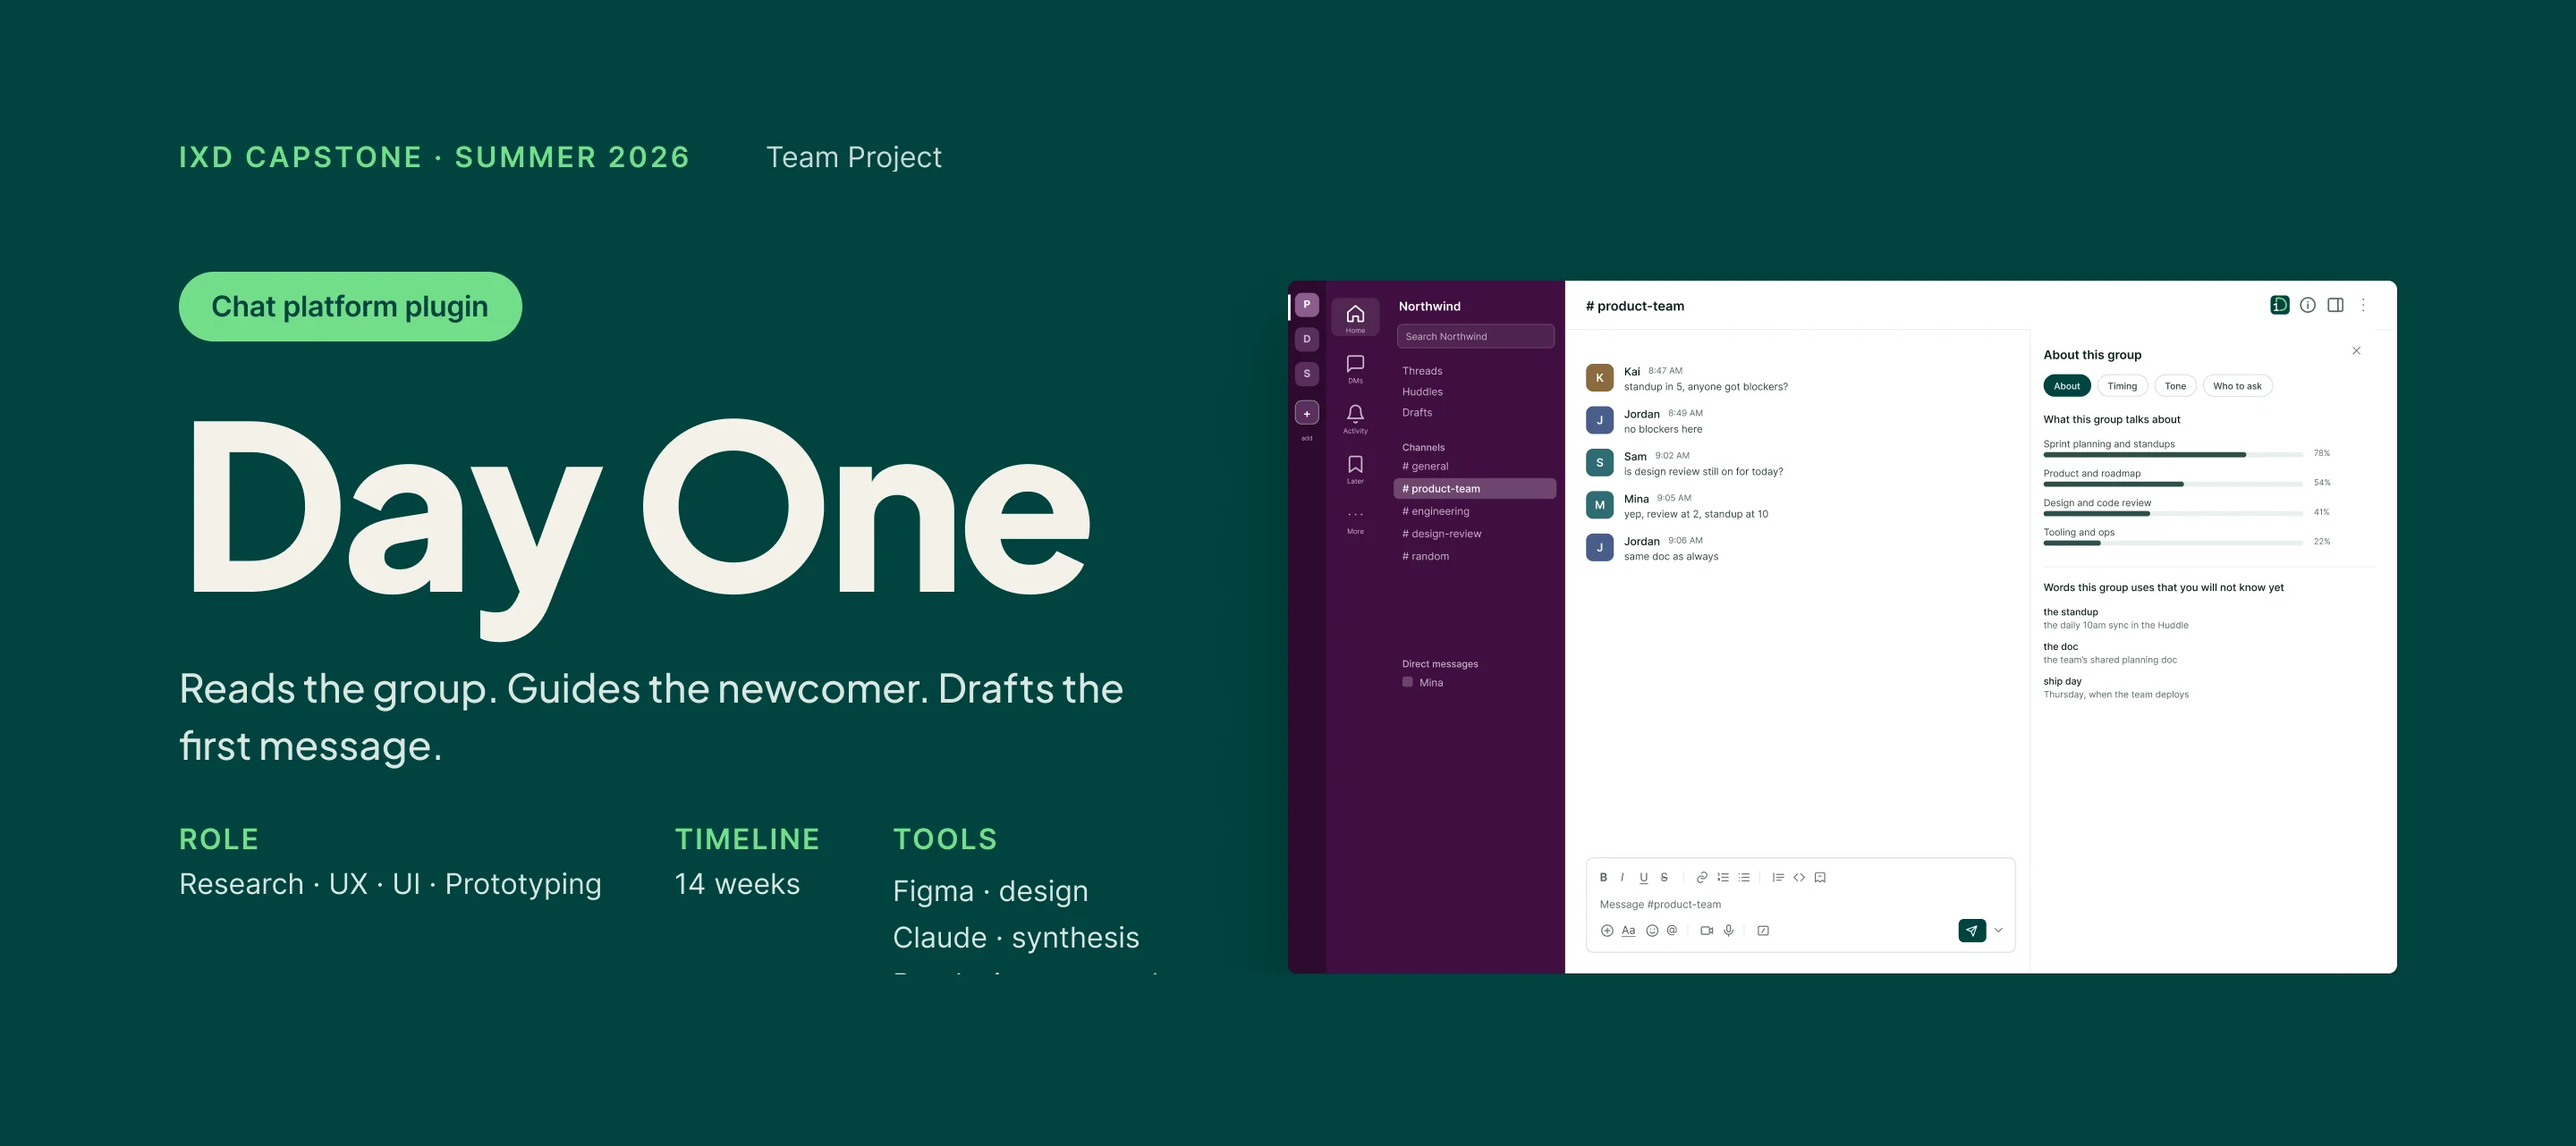
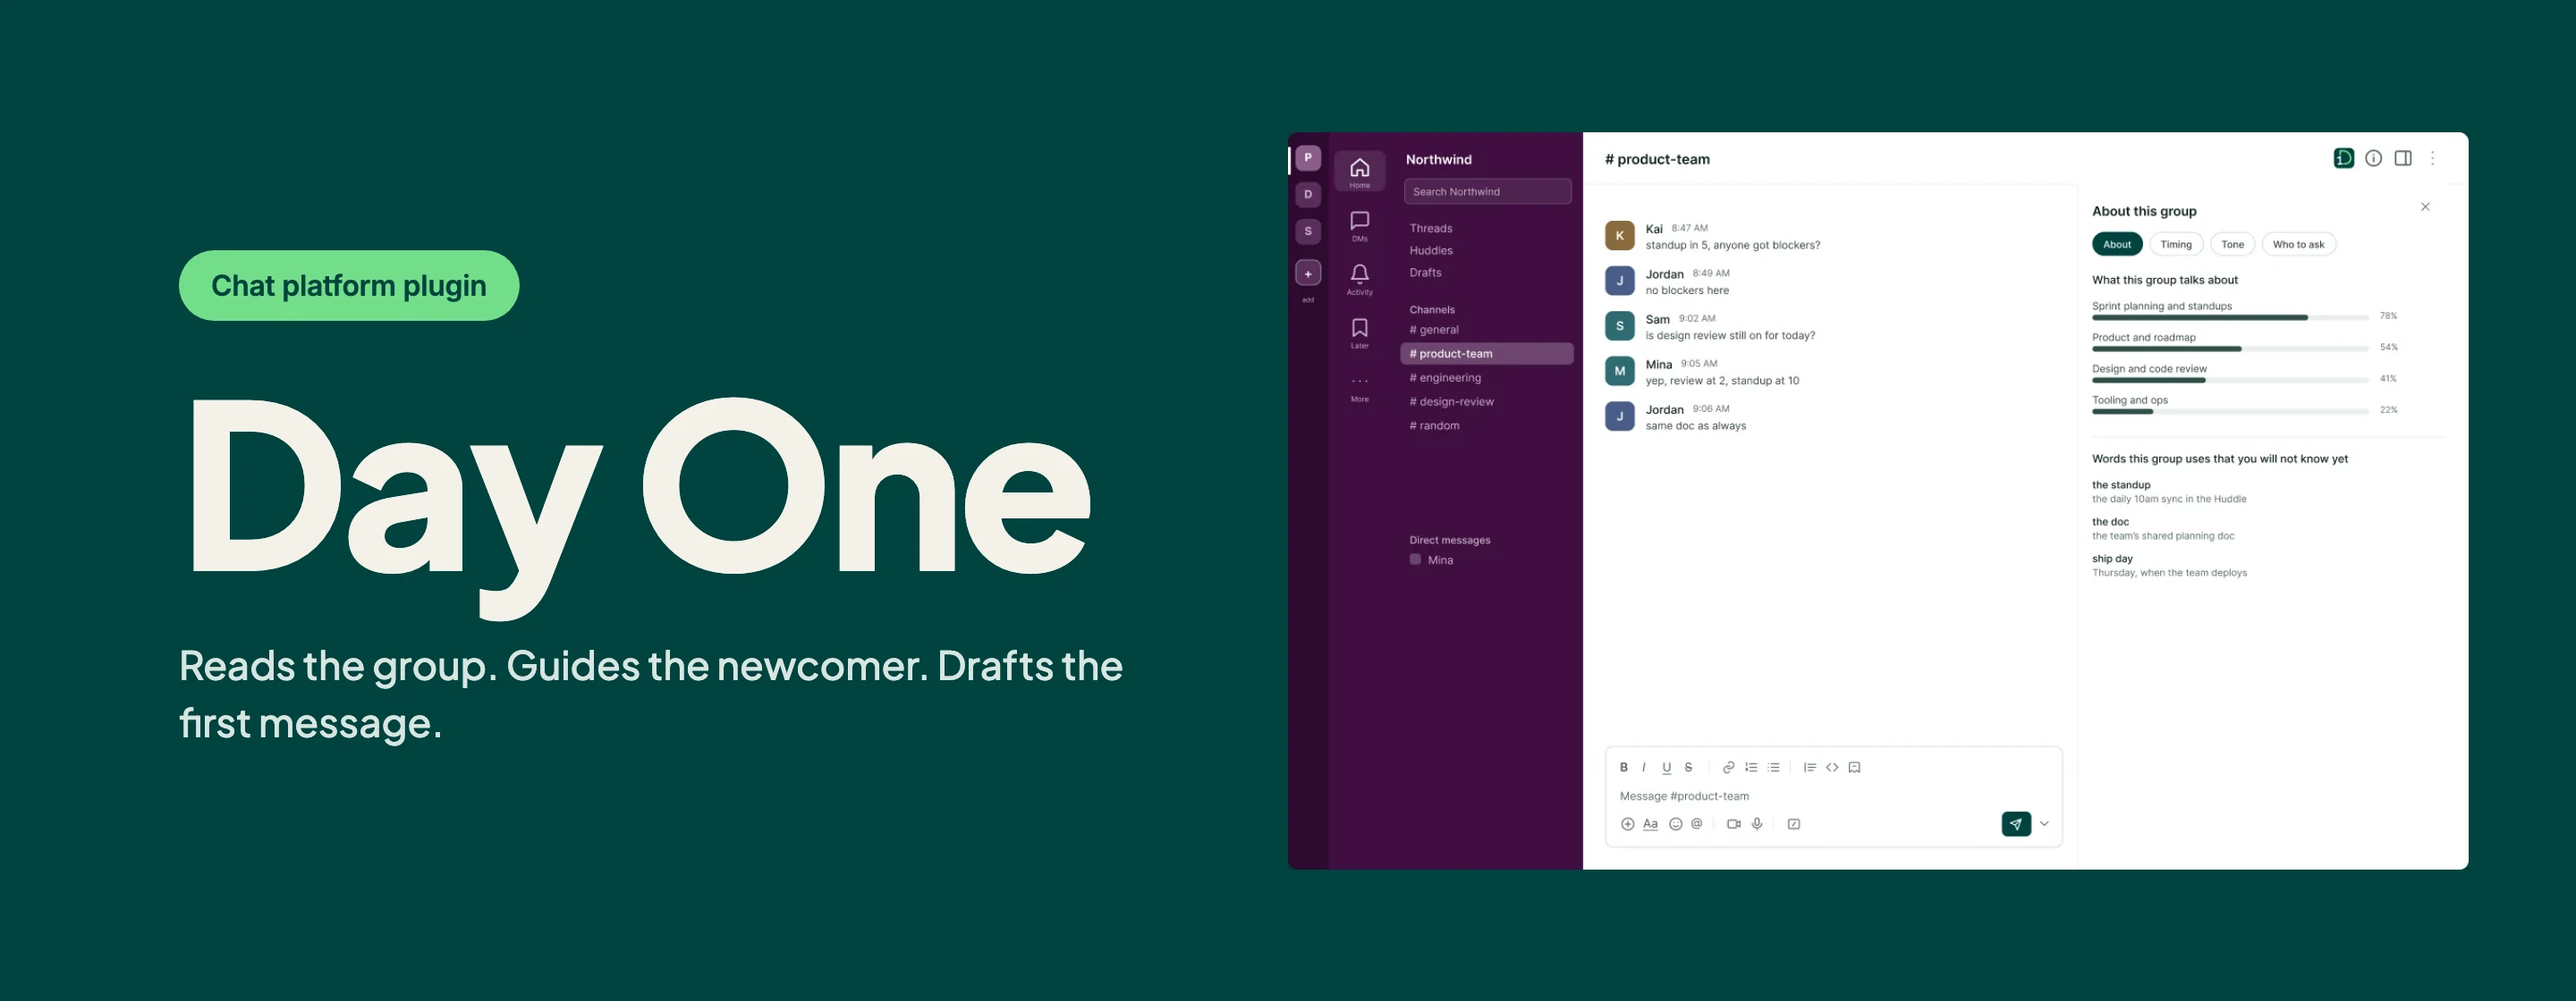
refine

diff --git a/dayone.html b/dayone.html
@@ -43,7 +43,7 @@
       <h1 class="do-h1">Day One</h1>
       <p class="do-tagline">Reads the group. Guides the newcomer. Drafts the first message.</p>
       <dl class="do-hero-facts">
-        <div><dt>ROLE</dt><dd>Research &middot; UX &middot; UI &middot; Prototyping</dd></div>
+        <div><dt>ROLE</dt><dd>Research &middot; UX<br>UI &middot; Prototyping</dd></div>
         <div><dt>TIMELINE</dt><dd>14 weeks</dd></div>
         <div><dt>TOOLS</dt><dd>Figma &middot; design<br>Claude &middot; synthesis<br>Perplexity &middot; research</dd></div>
       </dl>

diff --git a/css/dayone.css b/css/dayone.css
@@ -428,8 +428,9 @@ body {
 }
 
 .do-hero-facts {
-    display: flex;
-    gap: calc(40 * var(--u));
+    display: grid;
+    grid-template-columns: repeat(3, 1fr);
+    gap: calc(32 * var(--u));
     margin: calc(28 * var(--u)) 0 0;
     padding: 0;
     font-size: calc(16 * var(--u));
@@ -1011,7 +1012,7 @@ body {
         box-sizing: border-box;
     }
 
-    .do-hero-facts { flex-wrap: wrap; gap: 24px; }
+    .do-hero-facts { grid-template-columns: repeat(auto-fit, minmax(150px, 1fr)); gap: 24px; }
 
     .do-cols3,
     .do-cols2,

diff --git a/reflow.html b/reflow.html
@@ -143,6 +143,7 @@
 <img class="rf-band" src="assets/images/reflow/cs-tilt-profile.webp" alt="" style="left:690px;top:7955px;width:650px">
 
 <!-- ============ Three costs ============ -->
+<h2 class="rf-h2" style="left:140px;top:9101.32px;width:1094.67px">Pain Points</h2>
 <div class="rf-three" style="left:140px;top:9206.92px;width:1160px">
 <div class="rf-col">
   <div class="rf-hairline"></div>
